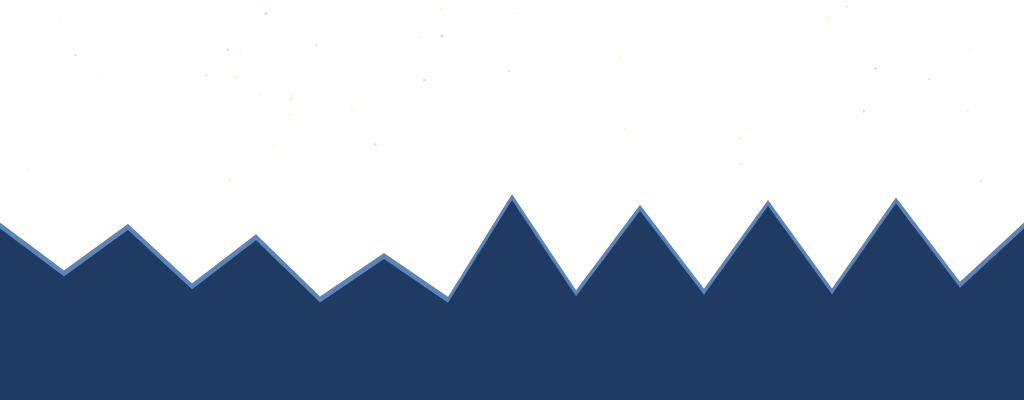
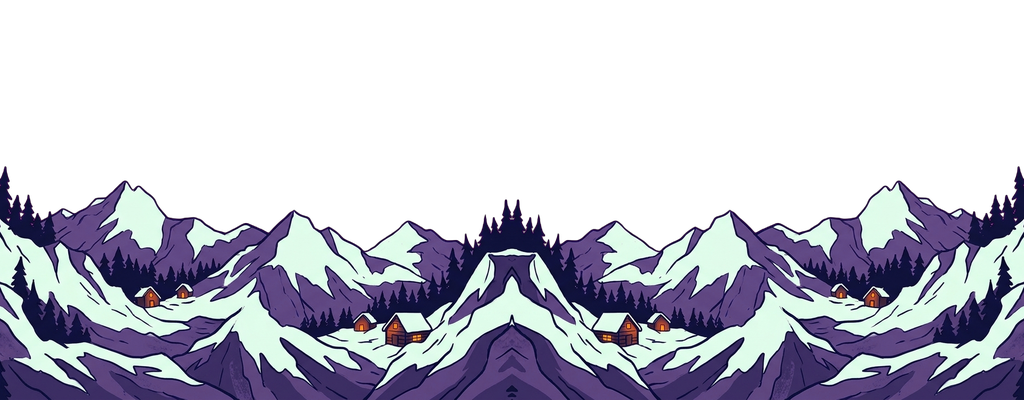
feat(art): replace map backgrounds with agy-generated toon art
mountains layer for all 7 map themes, hills_far for harvest_farm,
desert_temple and volcano_rift. Adds the magenta-key/mirror-tile
processing script and the agy prompts + batch runner.

diff --git a/tools/assets/agy_bg_process.py b/tools/assets/agy_bg_process.py
@@ -1,0 +1,37 @@
+"""agy 生的洋紅底遠景圖 → 去背、縮放、左右無縫的 1024×400 視差圖層。
+用法: python tools/assets/agy_bg_process.py <src_far.png> <out.png>
+"""
+import sys
+import numpy as np
+from PIL import Image
+
+W, H = 1024, 400
+
+def process(src, dst):
+    im = Image.open(src).convert('RGB')
+    a = np.asarray(im).astype(np.float32)
+    # 洋紅程度：R、B 高且 G 低
+    m = np.minimum(a[..., 0], a[..., 2]) - a[..., 1]
+    alpha = 1 - np.clip((m - 60) / 100, 0, 1)
+    # 去除邊緣粉紅溢色：把 R、B 壓到不超過 G 以上的合理值
+    spill = np.clip((m - 20) / 100, 0, 1)[..., None]
+    g = a[..., 1:2]
+    a = a * (1 - spill) + np.concatenate([g, g, g], -1) * spill * 0.9
+    rgba = np.dstack([a, alpha * 255]).clip(0, 255).astype(np.uint8)
+    img = Image.fromarray(rgba, 'RGBA')
+    bbox = img.getchannel('A').point(lambda v: 255 if v > 128 else 0).getbbox()
+    img = img.crop((0, bbox[1], img.width, img.height))
+    # 取中央一段縮成半幅，再接左右翻轉的自己：頭尾必定相接，不會有疊影
+    C = round(img.width * 0.66)
+    x0 = (img.width - C) // 2
+    img = img.crop((x0, 0, x0 + C, img.height))
+    s = (W // 2) / img.width
+    img = img.resize((W // 2, round(img.height * s)), Image.LANCZOS)
+    tile = np.concatenate([np.asarray(img), np.asarray(img)[:, ::-1]], axis=1)
+    out = Image.new('RGBA', (W, H), (0, 0, 0, 0))
+    h = min(tile.shape[0], H)
+    out.paste(Image.fromarray(tile[-h:], 'RGBA'), (0, H - h))
+    out.save(dst)
+
+if __name__ == '__main__':
+    process(sys.argv[1], sys.argv[2])
